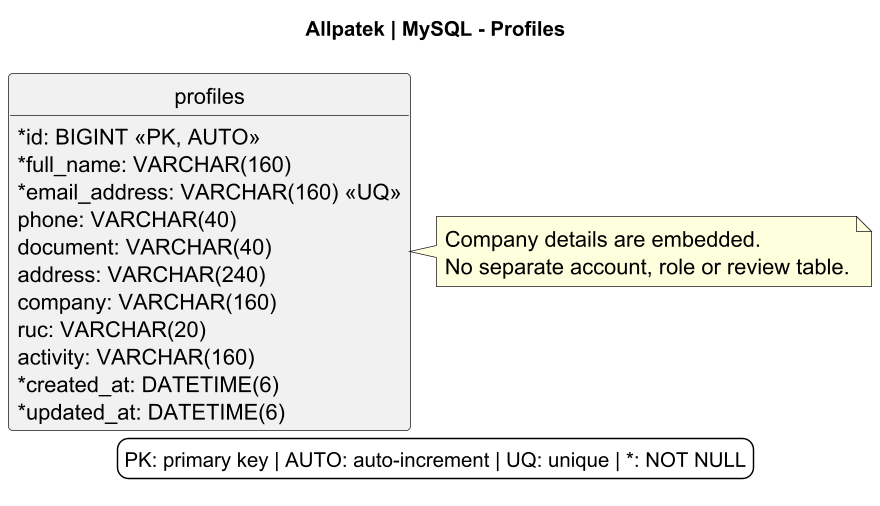
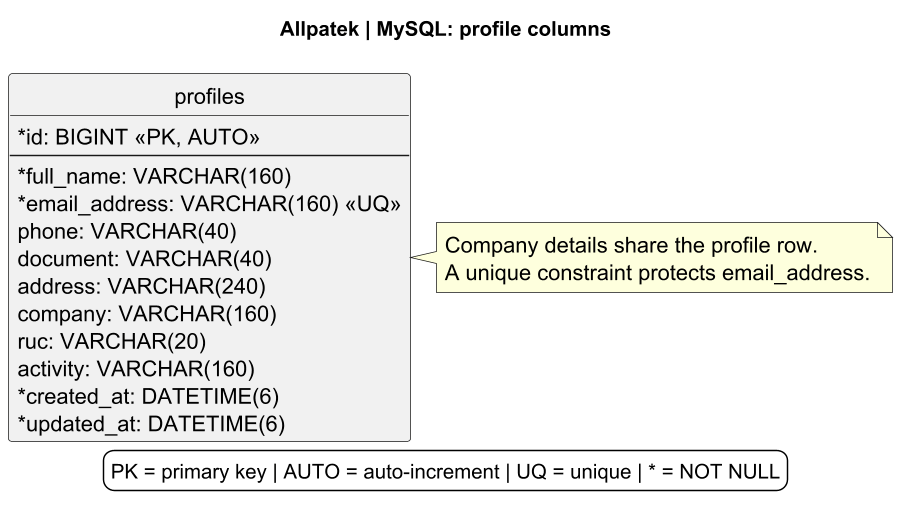
docs(database): specify profiles columns and constraints

Changed region(s): [[0.0, 0.1186, 0.8898, 0.9486], [0.4602, 0.415, 1.0, 0.5929], [0.3068, 0.0296, 0.675, 0.0889]]

diff --git a/README.md b/README.md
@@ -2307,9 +2307,11 @@ Cada evidencia contiene el identificador de parcela, número de hito, estado y, 
 
 *Figura 4.8.1-D. Tabla evidences y parcela.* [Ampliar en SVG](assets/chapter-04/architecture/17-database-monitoring.svg) · [Fuente PlantUML](assets/chapter-04/architecture/17-database-monitoring.puml).
 
+El sistema asigna el identificador del perfil. El correo es obligatorio y único. Las tablas que guardan ese identificador como referencia se muestran en la vista general.
+
 ![Figura 4.8.1-E. Tabla profiles y datos de contacto](assets/chapter-04/architecture/13-database-users.png)
 
-*Figura 4.8.1-E. Tabla profiles y datos de contacto.* <a href="assets/chapter-04/architecture/13-database-users.puml" style="text-decoration: none;">Fuente PlantUML</a> · <a href="assets/chapter-04/architecture/13-database-users.svg" style="text-decoration: none;">SVG</a>.
+*Figura 4.8.1-E. Tabla profiles y datos de contacto.* [Ampliar en SVG](assets/chapter-04/architecture/13-database-users.svg) · [Fuente PlantUML](assets/chapter-04/architecture/13-database-users.puml).
 
 La estrategia de nombres físicos transforma la anotación `@Table(name = "evidence")` en `evidences`. La ruta HTTP conserva el singular `/api/v1/evidence`. Las listas de cultivos e imágenes se serializan como texto JSON. Los archivos de evidencia se guardan como texto de imagen y nombre de archivo. wallets persiste card_number y cvv además de last4. No existen tablas de cuentas de acceso, reservas, hitos independientes, transacciones, reseñas ni alertas meteorológicas. Para el diseño objetivo quedan pendientes las restricciones entre registros, la protección de datos y la conservación de archivos al cambiar un estado.
 
